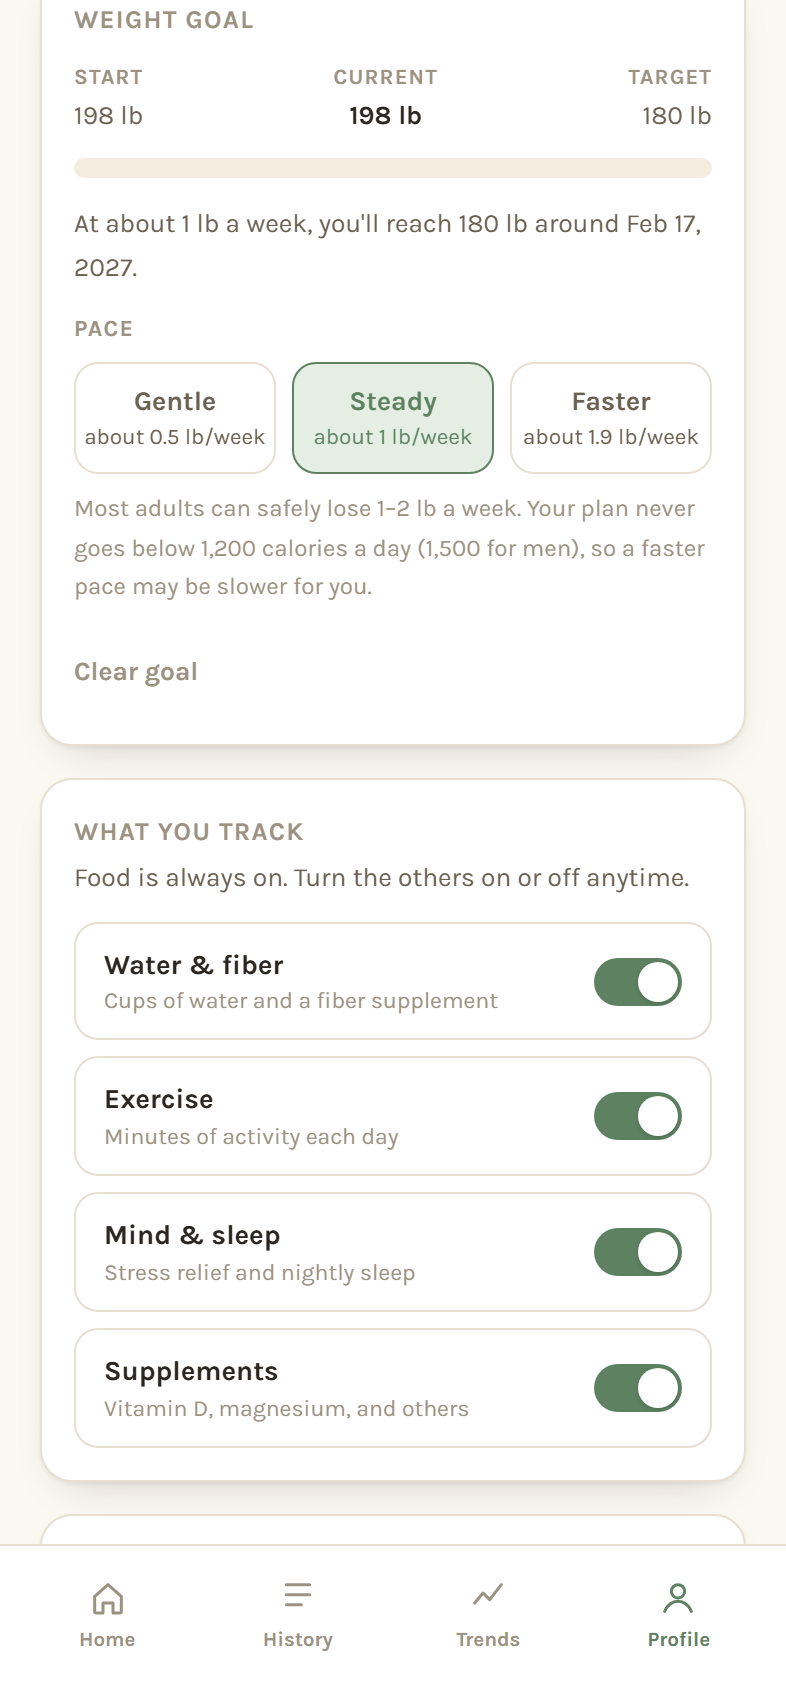
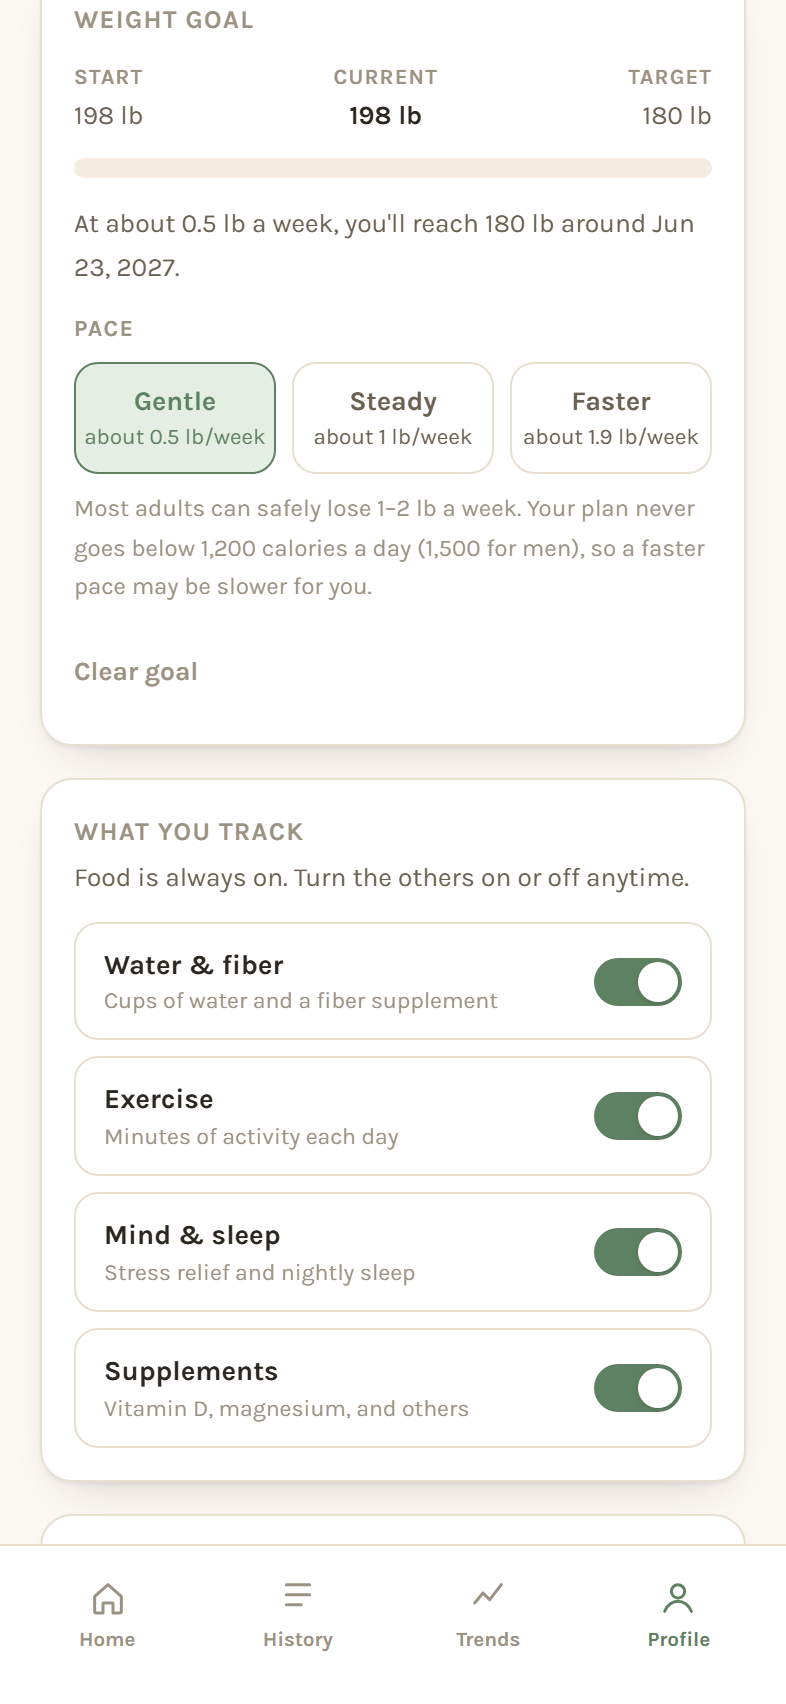
Show Alex choosing a gentler pace on the weight goal screenshot

Changed region(s): [[0.0916, 0.1866, 0.6412, 0.2799], [0.2137, 0.1244, 0.8855, 0.1555]]

diff --git a/docs/SCREENS.md b/docs/SCREENS.md
@@ -15,11 +15,11 @@ These screens follow one person, Alex, who was just told he has prediabetes, thr
 
 ## Getting started
 
-Before sign-up, the app asks for a language, greeting the person in their phone's language. Sign-up then takes five short steps: Alex's name, why he's here, what he wants to track, a few details about himself, and the calorie plan built from them. Because Alex's BMI is above the healthy range, he can then set a weight goal in Profile and pick a safe pace (Gentle, Steady, or Faster), and the app shows when he'd reach it. Day one opens with three small steps instead of a blank screen.
+Before sign-up, the app asks for a language, greeting the person in their phone's language. Sign-up then takes five short steps: Alex's name, why he's here, what he wants to track, a few details about himself, and the calorie plan built from them. His plan starts at a steady pace of about 1 lb (0.5 kg) a week. Later, in Profile, Alex sets a target of 180 lb and switches to Gentle, about 0.5 lb a week, and the app moves his expected finish from February to June 2027. Day one opens with three small steps instead of a blank screen.
 
 <img src="screenshots/01-language-picker.png" width="240" alt="Welcome screen asking for a language, greeting in Spanish"> <img src="screenshots/02-your-name.png" width="240" alt="Step 1: what should we call you?"> <img src="screenshots/03-your-goal.png" width="240" alt="Step 2: what brings you here, with Reverse prediabetes selected"> <img src="screenshots/04-choose-what-to-track.png" width="240" alt="Step 3: choosing what to track">
 
-<img src="screenshots/05-about-you.png" width="240" alt="Step 4: height, weight, age, sex, and activity level"> <img src="screenshots/06-your-plan.png" width="240" alt="Step 5: Alex's plan with BMI and a daily calorie target"> <img src="screenshots/07-weight-pace.png" width="240" alt="Weight goal in Profile with Gentle, Steady, and Faster pace"> <img src="screenshots/08-home-start-here.png" width="240" alt="Home with the Start here checklist">
+<img src="screenshots/05-about-you.png" width="240" alt="Step 4: height, weight, age, sex, and activity level"> <img src="screenshots/06-your-plan.png" width="240" alt="Step 5: Alex's plan with BMI and a daily calorie target"> <img src="screenshots/07-weight-pace.png" width="240" alt="Weight goal in Profile with the Gentle pace chosen and a June 2027 finish date"> <img src="screenshots/08-home-start-here.png" width="240" alt="Home with the Start here checklist">
 
 ## Logging a meal
 
